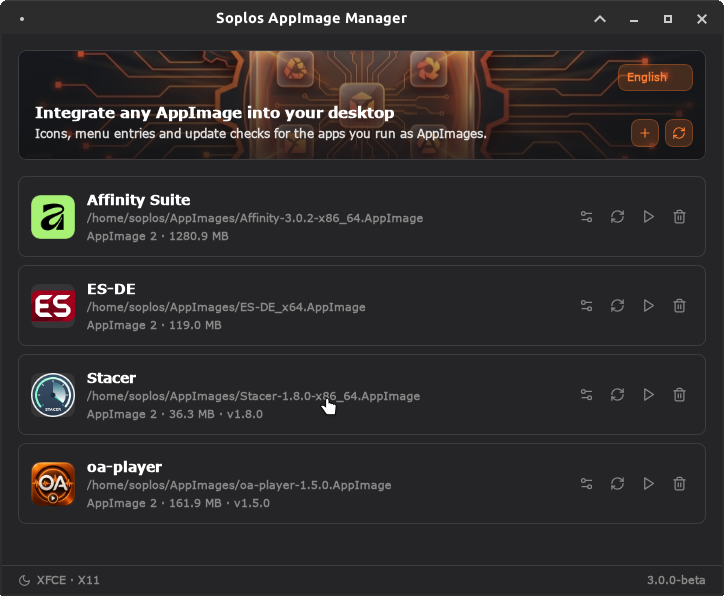
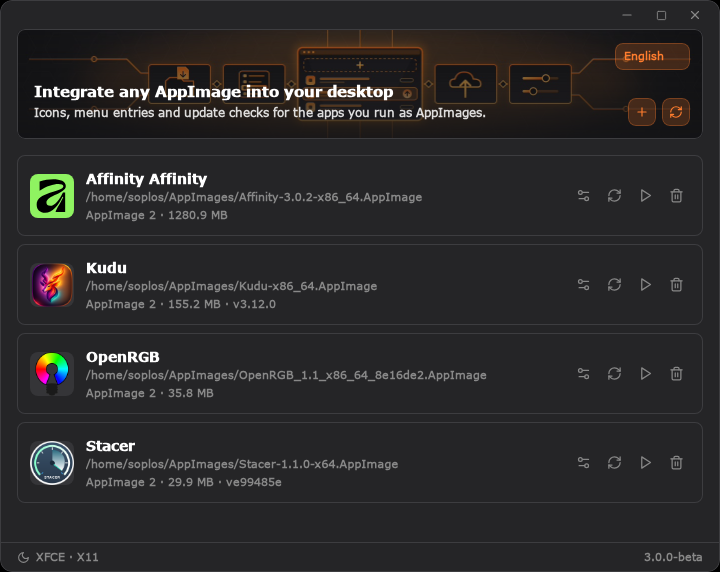
chore: bump Soplos AppImage Manager 3.0 to 3.0.0-6-beta

diff --git a/CHANGELOG.md b/CHANGELOG.md
@@ -2,6 +2,16 @@
 
 All notable changes to Soplos AppImage Manager are documented in this file.
 
+## [3.0.0-6-beta] - 2026-11-04
+
+### Fixed
+
+- The application metadata points to the launcher that the package installs, `soplos-appimage-manager.desktop`, so the software centers link the entry of the menu with the program.
+
+### Changed
+
+- New screenshot of the list of AppImages.
+
 ## [3.0.0-5-beta] - 2026-10-29
 
 ### Changed

diff --git a/README.md b/README.md
@@ -1,6 +1,6 @@
 # Soplos AppImage Manager 3.0
 
-![Version](https://img.shields.io/badge/version-3.0.0--5--beta-blue)
+![Version](https://img.shields.io/badge/version-3.0.0--6--beta-blue)
 ![License](https://img.shields.io/badge/license-GPL--3.0--or--later-green)
 ![Platform](https://img.shields.io/badge/platform-Linux-lightgrey)
 ![Tauri](https://img.shields.io/badge/Tauri-2-orange)
